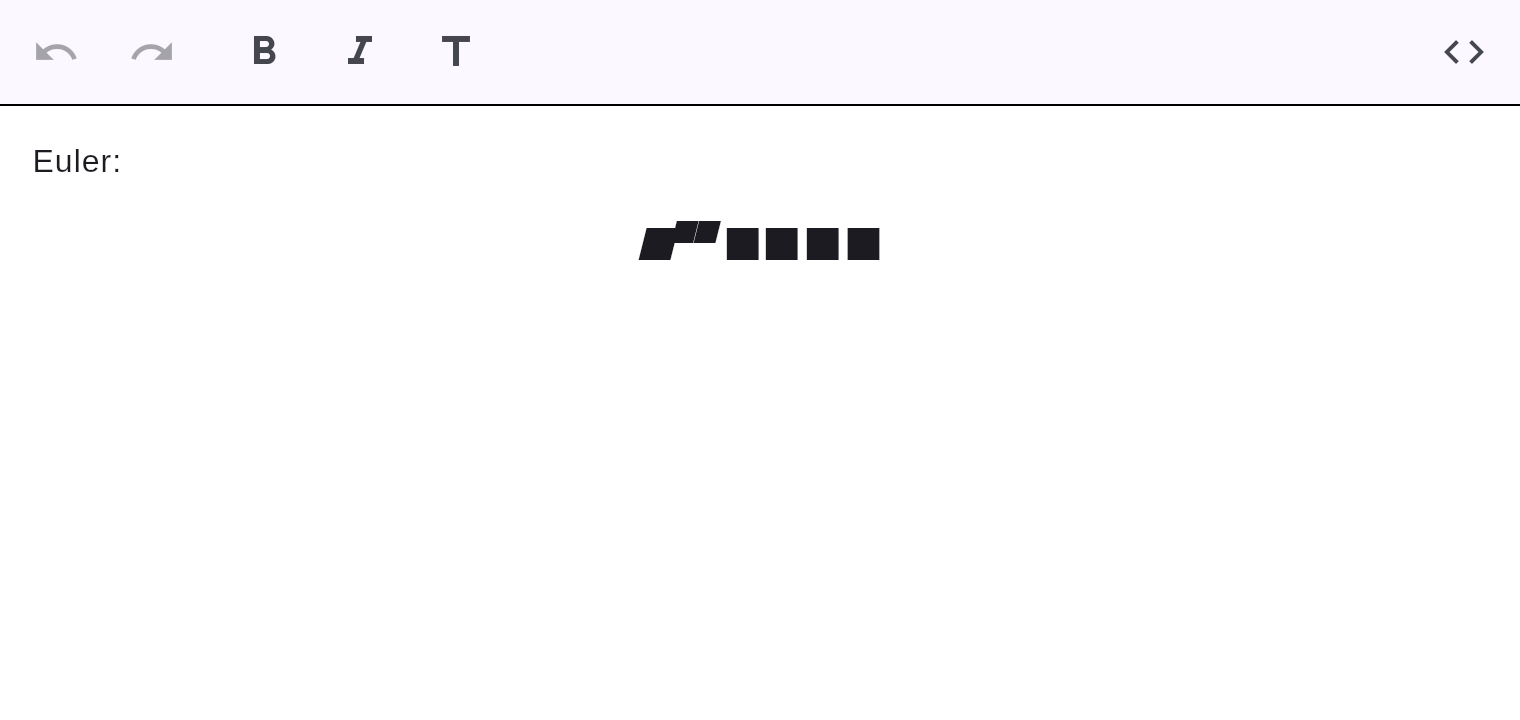
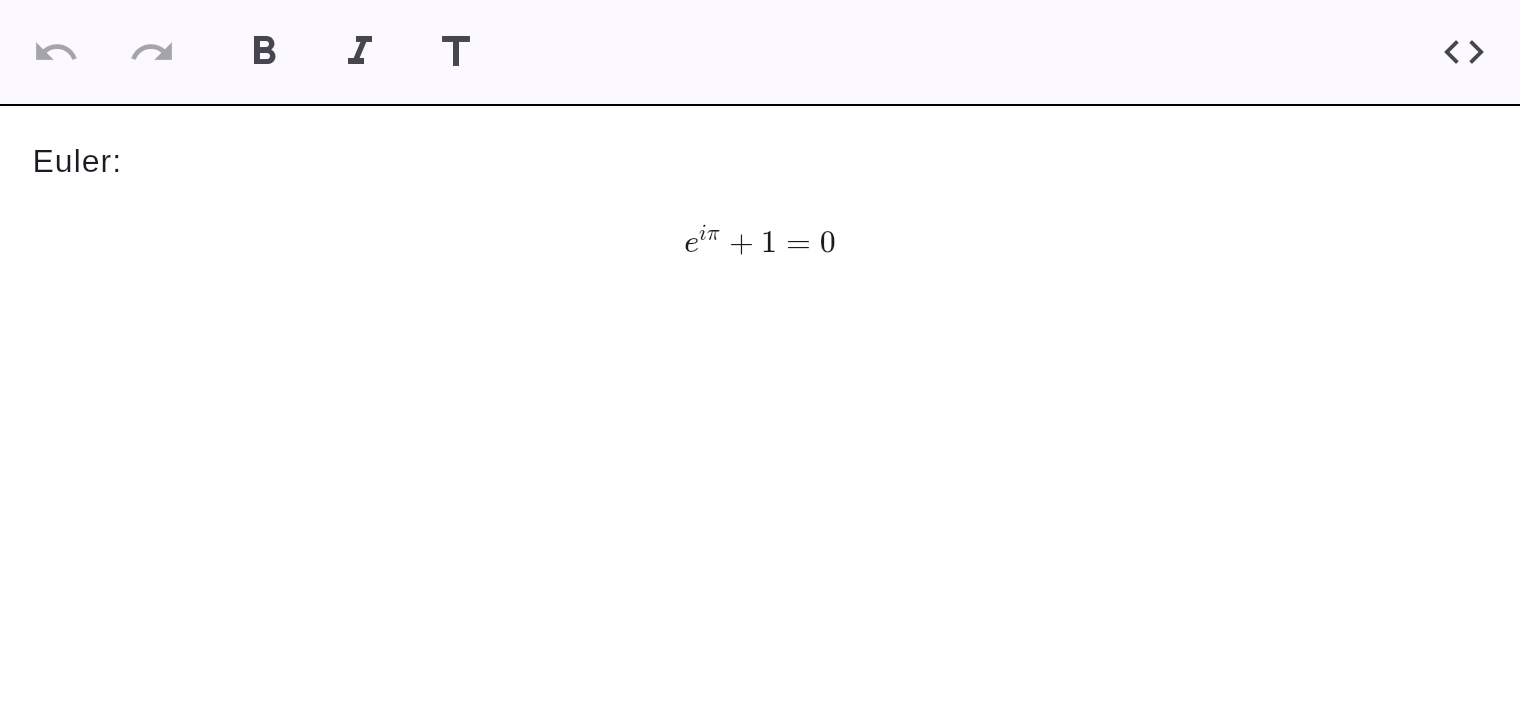
TDD: inline math ($...$) — round-trip + native KaTeX rendering + docs
Red-green: MathInlineSyntax ($...$) + decode/encode round-trip; render inline
math natively (flutter_math_fork WidgetSpan) when not editing, editable LaTeX
source when focused. Screenshot harness now loads KaTeX fonts so math renders in
docs. Unit + UI tests; docs. 349 tests, analyzer clean.

Changed region(s): [[0.402, 0.3056, 0.5875, 0.3667]]

diff --git a/test/docs/generate_screenshots_test.dart b/test/docs/generate_screenshots_test.dart
@@ -125,6 +125,11 @@ A native, cross-platform **WYSIWYG Markdown editor** for Flutter.
         "```dart\nvoid main() {\n  print('hello'); // a comment\n  var x = 42;\n}\n```");
   });
 
+  testWidgets('math-inline', (t) async {
+    await shoot(t, 'math-inline',
+        r'The mass–energy equivalence is $E = mc^2$, and a circle is $A = \pi r^2$.');
+  });
+
   testWidgets('table', (t) async {
     await shoot(t, 'table',
         '| Feature | Native? |\n| :-- | :-: |\n| Tables | yes |\n| Math | yes |\n| Code | yes |');
@@ -241,6 +246,9 @@ Future<void> _loadFonts() async {
     '$fontDir/liberation/LiberationMono-Regular.ttf',
     '$fontDir/liberation/LiberationMono-Bold.ttf',
   ]);
+  // KaTeX glyph fonts (bundled with flutter_math_fork) so math renders.
+  await _loadKaTeXFonts();
+
   // Material icon glyphs for the toolbar (resolve the Flutter SDK root).
   final flutterRoot = _flutterRoot();
   await load('MaterialIcons', [
@@ -248,6 +256,45 @@ Future<void> _loadFonts() async {
       '$flutterRoot/bin/cache/artifacts/material_fonts/MaterialIcons-Regular.otf',
     '/opt/flutter/bin/cache/artifacts/material_fonts/MaterialIcons-Regular.otf',
   ]);
+}
+
+/// Loads the KaTeX glyph fonts bundled with `flutter_math_fork`, grouped by
+/// family (the filename prefix before `-`), so math renders in screenshots.
+Future<void> _loadKaTeXFonts() async {
+  final home = Platform.environment['PUB_CACHE'] ??
+      '${Platform.environment['HOME']}/.pub-cache';
+  final base = Directory('$home/hosted/pub.dev');
+  if (!base.existsSync()) return;
+  final pkg = base
+      .listSync()
+      .whereType<Directory>()
+      .where((d) => d.path.split('/').last.startsWith('flutter_math_fork-'))
+      .toList();
+  if (pkg.isEmpty) return;
+  final fontsDir = Directory('${pkg.first.path}/lib/katex_fonts/fonts');
+  if (!fontsDir.existsSync()) return;
+
+  final byFamily = <String, List<String>>{};
+  for (final f in fontsDir.listSync().whereType<File>()) {
+    if (!f.path.endsWith('.ttf')) continue;
+    final name = f.path.split('/').last; // e.g. KaTeX_Main-Bold.ttf
+    final family = name.split('-').first; // KaTeX_Main
+    byFamily.putIfAbsent(family, () => []).add(f.path);
+  }
+  for (final entry in byFamily.entries) {
+    // flutter_math_fork references its fonts with a package prefix.
+    for (final family in [
+      'packages/flutter_math_fork/${entry.key}',
+      entry.key,
+    ]) {
+      final loader = FontLoader(family);
+      for (final path in entry.value) {
+        loader.addFont(
+            Future.value(ByteData.view(File(path).readAsBytesSync().buffer)));
+      }
+      await loader.load();
+    }
+  }
 }
 
 /// Derives the Flutter SDK root from the running Dart executable

diff --git a/lib/src/widget/markdown_editor.dart b/lib/src/widget/markdown_editor.dart
@@ -7,6 +7,7 @@ import 'package:flutter/services.dart';
 import 'package:flutter_math_fork/flutter_math.dart';
 
 import '../editing/search.dart';
+import '../model/attributes.dart';
 import '../model/delta.dart';
 import '../model/node.dart';
 import '../model/position.dart';
@@ -605,10 +606,55 @@ class _MarkdownEditorState extends State<MarkdownEditor> with TextInputClient {
     );
   }
 
+  bool _hasInlineMath(TextBlockNode node) =>
+      node.delta.runs.any((r) => r.attributes[InlineAttr.math] == true);
+
+  bool _isActiveBlock(TextBlockNode node) =>
+      _focusNode.hasFocus && _c.selection?.extent.nodeId == node.id;
+
+  /// Read-mode rendering of a block that contains inline math: renders the math
+  /// natively (KaTeX via `flutter_math_fork`) inline with the text. Tapping it
+  /// focuses the block, which switches to the editable source view.
+  Widget _renderedContent(TextBlockNode node, EditorStyle style) {
+    final base = baseStyleFor(node, style);
+    final spans = <InlineSpan>[
+      for (final run in node.delta.runs)
+        if (run.attributes[InlineAttr.math] == true)
+          WidgetSpan(
+            alignment: PlaceholderAlignment.middle,
+            child: Math.tex(
+              run.text,
+              textStyle: base,
+              mathStyle: MathStyle.text,
+              onErrorFallback: (e) => Text('\$${run.text}\$', style: base),
+            ),
+          )
+        else
+          TextSpan(
+            text: run.text,
+            style: styleForAttributes(run.attributes, base, style),
+          ),
+    ];
+    return GestureDetector(
+      key: ValueKey('markey-block-${node.id}'),
+      behavior: HitTestBehavior.opaque,
+      onTap: widget.readOnly
+          ? null
+          : () {
+              _focusNode.requestFocus();
+              _c.setSelection(DocumentSelection.collapsed(
+                  DocumentPosition.text(node.id, node.delta.length)));
+            },
+      child: Text.rich(TextSpan(style: base, children: spans)),
+    );
+  }
+
   /// Wraps the editable text content with any block decoration (list marker,
   /// task checkbox, quote bar).
   Widget _buildBlock(TextBlockNode node, EditorStyle style) {
-    final content = _textContent(node, style);
+    final content = (_hasInlineMath(node) && !_isActiveBlock(node))
+        ? _renderedContent(node, style)
+        : _textContent(node, style);
     switch (node.type) {
       case BlockType.bulletedListItem:
         return _gutterRow(_marker('•', style), content);

diff --git a/lib/src/markdown/decoder.dart b/lib/src/markdown/decoder.dart
@@ -17,6 +17,7 @@ class MarkdownDecoder {
   md.Document _newMdDocument() => md.Document(
         extensionSet: md.ExtensionSet.gitHubFlavored,
         blockSyntaxes: [MathBlockSyntax()],
+        inlineSyntaxes: [MathInlineSyntax()],
         encodeHtml: false,
       );
 
@@ -343,6 +344,10 @@ class _InlineMapper implements md.NodeVisitor {
       case 'a':
         final href = element.attributes['href'] ?? '';
         _stack.add({InlineAttr.link: href});
+      case 'math':
+        _runs.add(TextRun(element.textContent, {InlineAttr.math: true}));
+        _stack.add(const {});
+        return false;
       case 'sup':
         if ((element.attributes['class'] ?? '').contains('footnote-ref')) {
           final label = element.textContent;
@@ -388,5 +393,17 @@ class MathBlockSyntax extends md.BlockSyntax {
       parser.advance();
     }
     return md.Element.text('math_block', lines.join('\n'));
+  }
+}
+
+/// A custom inline syntax for `$...$` math, producing a `math` element whose
+/// text is the LaTeX source. (Block `$$ … $$` is handled by [MathBlockSyntax].)
+class MathInlineSyntax extends md.InlineSyntax {
+  MathInlineSyntax() : super(r'\$([^$\n]+)\$');
+
+  @override
+  bool onMatch(md.InlineParser parser, Match match) {
+    parser.addNode(md.Element.text('math', match[1]!));
+    return true;
   }
 }

diff --git a/test/unit/math_test.dart b/test/unit/math_test.dart
@@ -1,8 +1,29 @@
 import 'package:flutter_test/flutter_test.dart';
 import 'package:markey_mark/src/markdown/markdown.dart';
+import 'package:markey_mark/src/model/attributes.dart';
 import 'package:markey_mark/src/model/node.dart';
 
 void main() {
+  group('Inline math', () {
+    test('decodes \$...\$ to a run with the math attribute', () {
+      final d = Markdown.parse(r'energy is $E = mc^2$ exactly');
+      final para = d.nodes.first as TextBlockNode;
+      final mathRun = para.delta.runs
+          .firstWhere((r) => r.attributes[InlineAttr.math] == true);
+      expect(mathRun.text, 'E = mc^2');
+    });
+
+    test('round-trips inline math', () {
+      const md = r'energy is $E = mc^2$ exactly';
+      expect(Markdown.serialize(Markdown.parse(md)), md);
+    });
+
+    test('does not consume block math', () {
+      final d = Markdown.parse(r'$$' '\n' r'x^2' '\n' r'$$');
+      expect(d.nodes.first, isA<MathBlockNode>());
+    });
+  });
+
   group('Block math', () {
     test('decodes \$\$...\$\$ to a MathBlockNode', () {
       final d = Markdown.parse(r'$$' '\n' r'x^2 + y^2' '\n' r'$$');

diff --git a/test/widget/blocks_render_test.dart b/test/widget/blocks_render_test.dart
@@ -115,6 +115,13 @@ void main() {
     await teardown(tester);
   });
 
+  testWidgets('inline math renders natively when not being edited',
+      (tester) async {
+    await pump(tester, r'energy is $E = mc^2$ exactly');
+    expect(find.byType(Math), findsOneWidget);
+    await teardown(tester);
+  });
+
   testWidgets('GFM table renders a Table widget with all cells', (tester) async {
     final c = await pump(
         tester, '| Name | Age |\n| --- | --- |\n| Ann | 30 |\n| Bob | 25 |');

diff --git a/lib/src/markdown/encoder.dart b/lib/src/markdown/encoder.dart
@@ -140,6 +140,13 @@ class MarkdownEncoder {
         continue;
       }
 
+      // Inline math is a self-contained `$…$` token (run text is the LaTeX).
+      if (attrs[InlineAttr.math] == true) {
+        closeFrom(0);
+        buf.write('\$${run.text}\$');
+        continue;
+      }
+
       // Code spans are literal and can't carry wrapping marks meaningfully;
       // close everything around them.
       final want = isCode

diff --git a/docs/features/math.md b/docs/features/math.md
@@ -1,19 +1,29 @@
 # Math
 
-KaTeX-class **block math**, rendered natively (no JavaScript) via `flutter_math_fork`.
+KaTeX-class math, rendered **natively** (no JavaScript) via `flutter_math_fork` — both block
+and inline.
+
+## Block math
 
 ![Block math](../images/math.png)
 
-## How to create one
-
-- **Slash menu / source:** wrap LaTeX in `$$` fences on their own lines.
-
-## Markdown
+Wrap LaTeX in `$$` fences on their own lines:
 
 ```markdown
 $$
 e^{i\pi} + 1 = 0
 $$
+```
+
+## Inline math
+
+![Inline math](../images/math-inline.png)
+
+Wrap LaTeX in single `$…$` within a line. It renders natively inline when you're not editing
+the line; click into the line to edit the LaTeX source.
+
+```markdown
+The mass–energy equivalence is $E = mc^2$.
 ```
 
 !!! note
